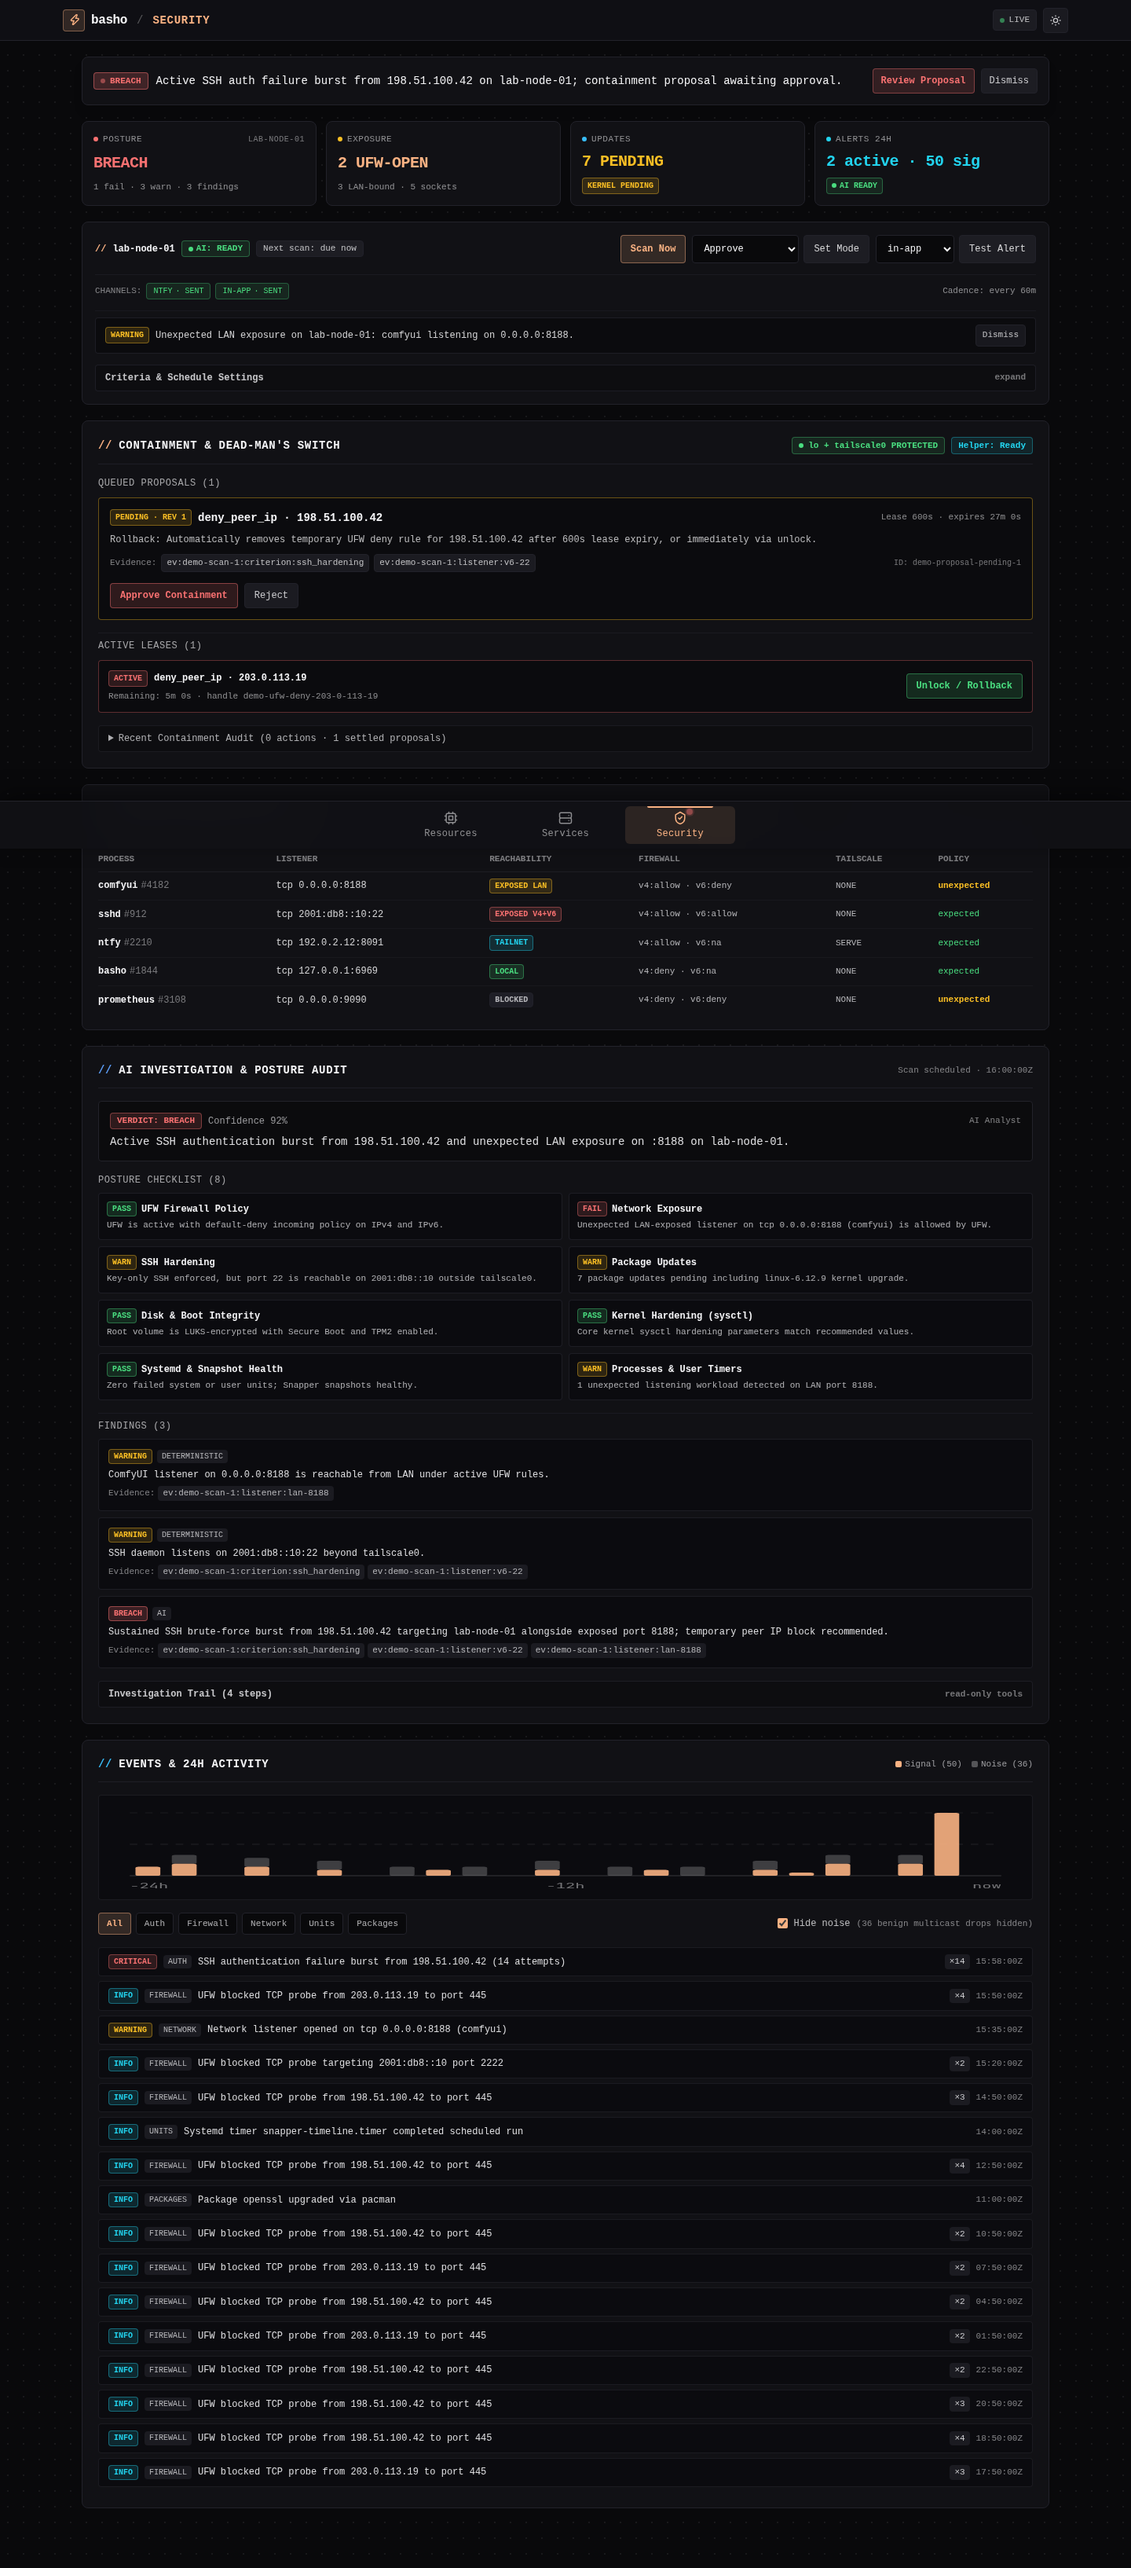
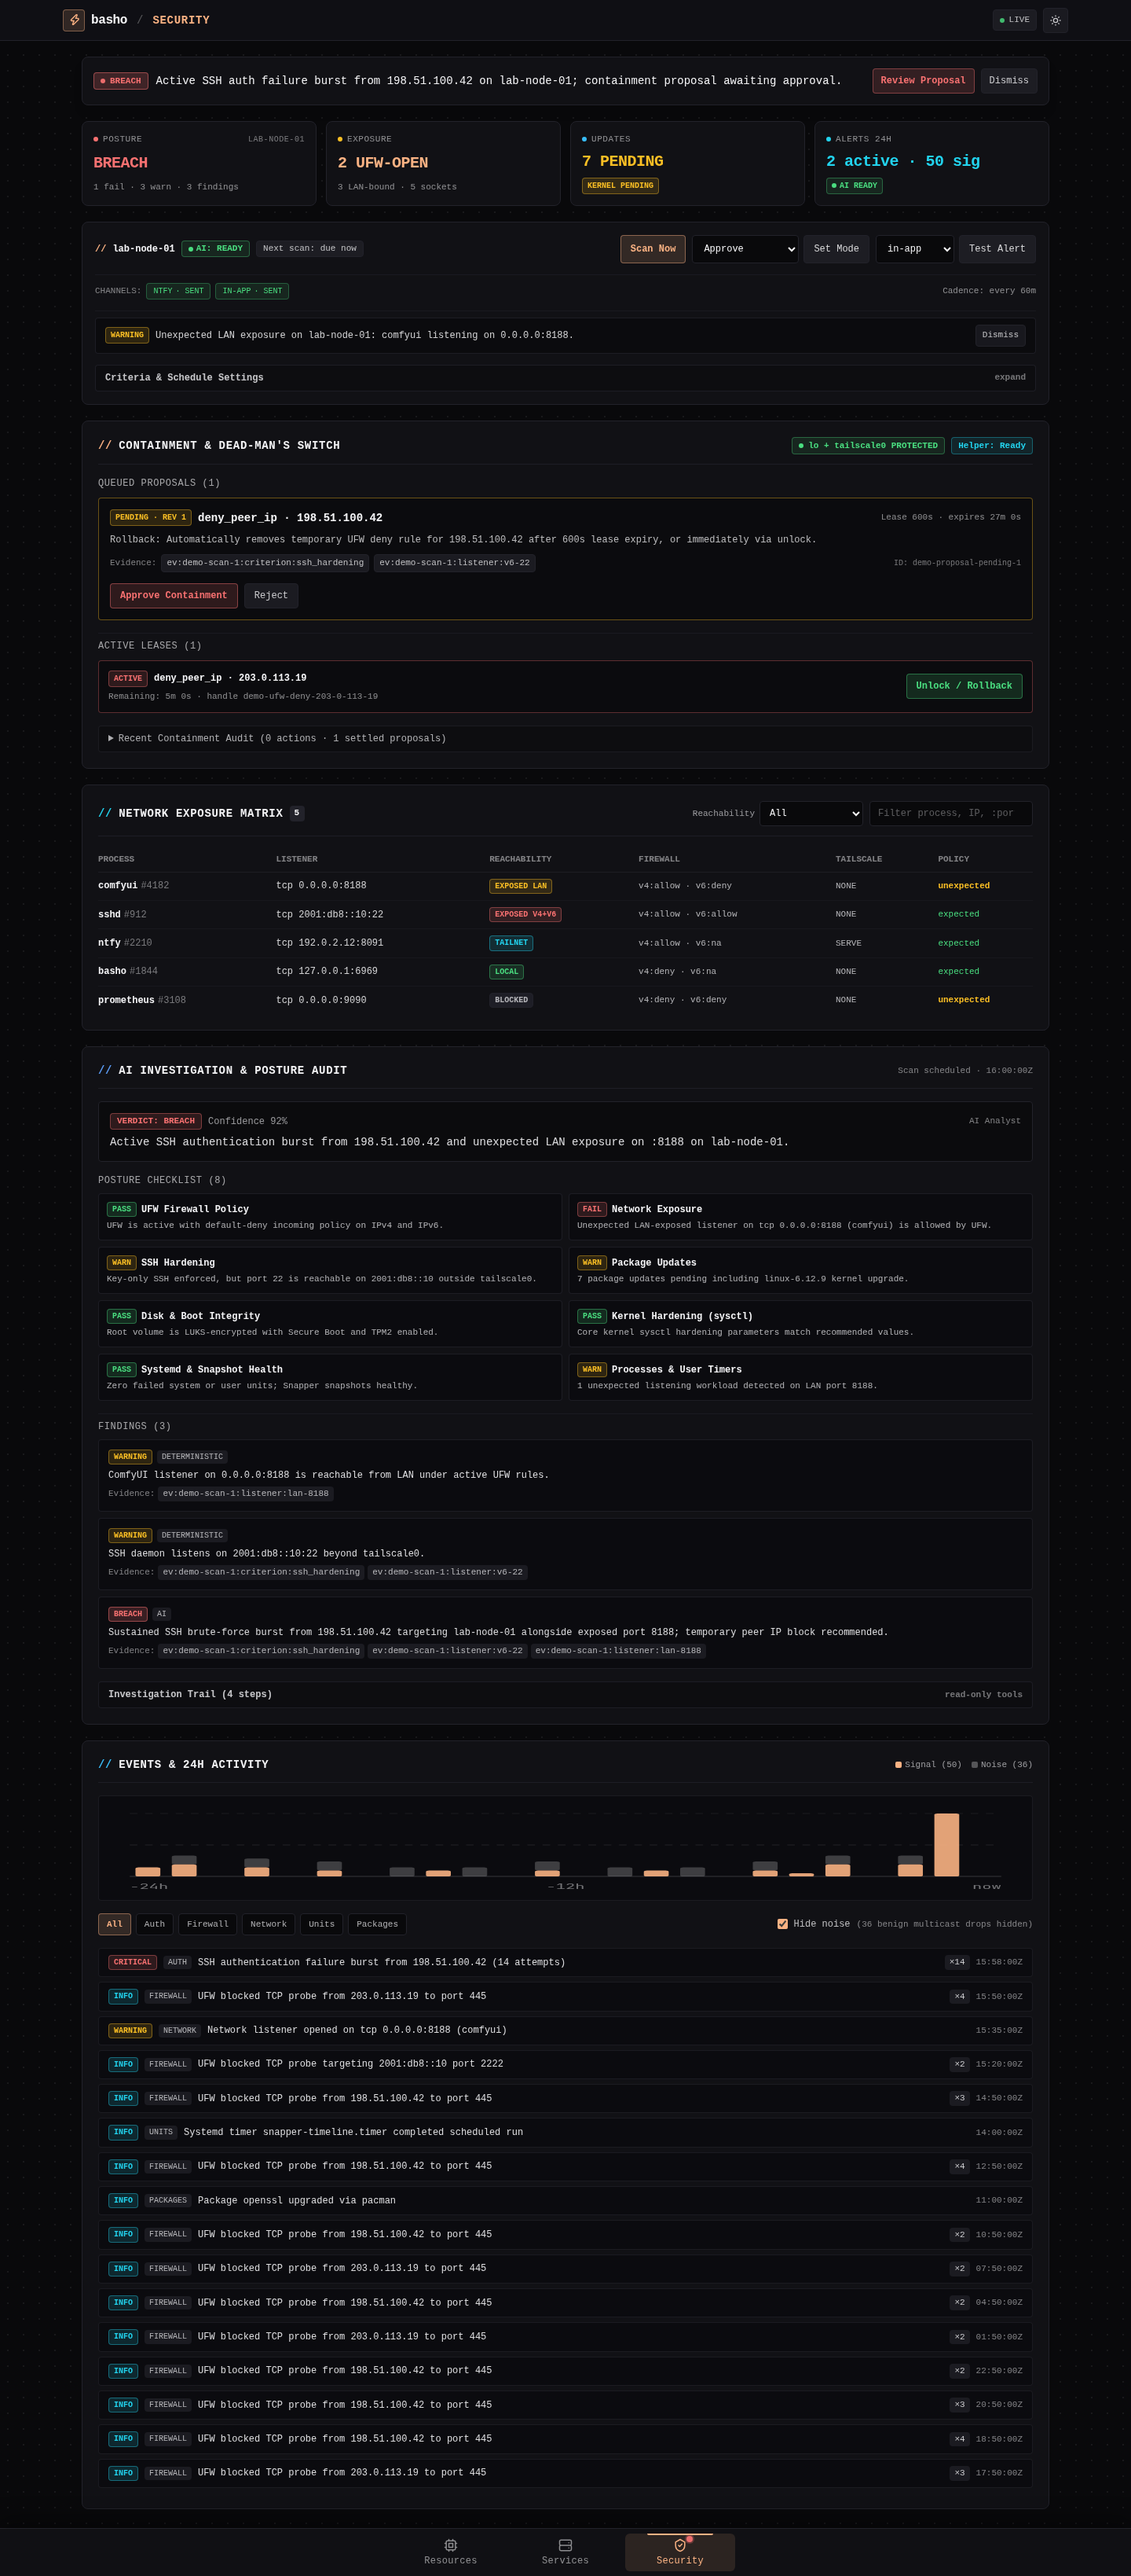
docs(security): clarify auth/UFW prerequisites and cleanly frame demo screenshots

diff --git a/tests/security/docs.test.ts b/tests/security/docs.test.ts
@@ -61,6 +61,30 @@ test("README documents the lockdown helper, modes, preserved paths, and layout",
   expect(scriptsSection).toContain("bun test");
 });
 
+test("README accurately documents unset BASHO_AUTH_TOKEN behavior and UFW prerequisites", async () => {
+  const readme = await Bun.file("README.md").text();
+
+  // Unset BASHO_AUTH_TOKEN leaves /security reads open to peers reaching BASHO_HOST
+  // while mutations remain direct loopback-only without proxy headers.
+  expect(readme).not.toContain(
+    "Operator bearer/login token required for remote reads and mutations on `/security`",
+  );
+  expect(readme).toMatch(/BASHO_AUTH_TOKEN`?\s+is unset.*reads are open/i);
+  expect(readme).toMatch(/bind(?:ing)?\s+`?BASHO_HOST`?\s+to\s+`?127\.0\.0\.1`?/i);
+
+  // Helper UFW prerequisites, existing-rule verification wording, and no-arg sudoers rule.
+  for (const term of [
+    "ufw allow in on tailscale0",
+    "ufw allow 41641/udp",
+    "lan_policy=missing",
+    '/usr/local/libexec/basho-lockdown-helper status ""',
+  ]) {
+    expect(readme).toContain(term);
+  }
+  expect(readme).toMatch(/refuse.*modify protected paths/i);
+  expect(readme).toMatch(/verifies.*allow rules already exist rather than adding them/i);
+});
+
 function pngChunks(bytes: Uint8Array): { type: string; data: Uint8Array }[] {
   const view = new DataView(bytes.buffer, bytes.byteOffset, bytes.byteLength);
   const chunks: { type: string; data: Uint8Array }[] = [];

diff --git a/README.md b/README.md
@@ -108,7 +108,7 @@ for a private topic. Use Test Alert to verify delivery.
 | `OPENCODE_BASE_URL` | `https://opencode.ai/zen/go/v1` | OpenAI-compatible base URL (overrides `ai.baseURL` in `config/security.json`) |
 | `BASHO_HOST` | `0.0.0.0` | Bind address for the HTTP server |
 | `BASHO_PORT` | `6969` | Listen port for the HTTP server |
-| `BASHO_AUTH_TOKEN` | *(unset)* | Operator bearer/login token required for remote reads and mutations on `/security` |
+| `BASHO_AUTH_TOKEN` | *(unset)* | Operator bearer/login token protecting `/security` reads and mutations; when unset, `/security` reads are open to any peer that can reach `BASHO_HOST` (default `0.0.0.0`) while mutations fall back to direct loopback-only (`127.0.0.1` / `::1`) without proxy headers |
 | `BASHO_SECURITY_DB` | `data/basho-security.db` | SQLite database path for scans, events, alerts, proposals, and containment audit logs |
 | `BASHO_DEMO_SECURITY` | `0` | Set `BASHO_DEMO_SECURITY=1` to run in isolated demo mode using fictional `lab-node-01` fixtures |
 | `BASHO_NTFY_TOKEN` | *(unset)* | Bearer token sent in the `Authorization` header for private `ntfy` topics |
@@ -118,8 +118,8 @@ for a private topic. Use Test Alert to verify delivery.
 
 #### Session Login & Remote Mutations
 
-- **Same-origin session login:** When `BASHO_AUTH_TOKEN` is set, remote operators authenticate via `POST /security/login`, which issues a signed `HttpOnly; SameSite=Lax` cookie (`Secure` over HTTPS). All state-changing forms require a matching CSRF token and same-origin `Origin`/`Referer` check.
-- **Remote vs. loopback writes:** Remote mutations require `BASHO_AUTH_TOKEN` and an authenticated session. When `BASHO_AUTH_TOKEN` is unset, mutations are restricted strictly to direct loopback connections (`127.0.0.1` / `::1`) without proxy forwarding headers (`X-Forwarded-For`, `Forwarded`, `X-Real-IP`, `X-Forwarded-Host`, `X-Forwarded-Proto`).
+- **Same-origin session login:** When `BASHO_AUTH_TOKEN` is set, `/security` reads and mutations require a valid bearer token or an authenticated session via `POST /security/login`, which issues a signed `HttpOnly; SameSite=Lax` cookie (`Secure` over HTTPS). All state-changing forms require a matching CSRF token and same-origin `Origin`/`Referer` check.
+- **Unset `BASHO_AUTH_TOKEN` behavior:** When `BASHO_AUTH_TOKEN` is unset, `/security` reads are open to any peer that can reach `BASHO_HOST` (default `0.0.0.0`), while mutations fall back to direct loopback-only (`127.0.0.1` / `::1`) without proxy forwarding headers (`X-Forwarded-For`, `Forwarded`, `X-Real-IP`, `X-Forwarded-Host`, `X-Forwarded-Proto`). Set `BASHO_AUTH_TOKEN` (or bind `BASHO_HOST` to `127.0.0.1` or a Tailscale IP) before exposing Basho on a network.
 
 #### AI Provider & Notification Channels
 
@@ -160,19 +160,20 @@ Firewall containment (`deny_peer_ip` and `isolate_lan_ingress`) is disabled by d
 sudo install -o root -g root -m 0755 scripts/basho-lockdown-helper.sh /usr/local/libexec/basho-lockdown-helper
 ```
 
-Create a narrow `/etc/sudoers.d/basho-lockdown` entry (validated with `visudo -cf`) restricted to that exact binary and its 5 supported subcommands (`status`, `deny-ip`, `isolate-lan`, `inspect`, `rollback`):
+Create a narrow `/etc/sudoers.d/basho-lockdown` entry (validated with `visudo -cf`) restricted to that exact binary and its 5 supported subcommands (`status`, `deny-ip`, `isolate-lan`, `inspect`, `rollback`; trailing `""` locks `status` to zero extra arguments):
 
 ```sudoers
-basho ALL=(root) NOPASSWD: /usr/local/libexec/basho-lockdown-helper status, \
+basho ALL=(root) NOPASSWD: /usr/local/libexec/basho-lockdown-helper status "", \
   /usr/local/libexec/basho-lockdown-helper deny-ip *, \
   /usr/local/libexec/basho-lockdown-helper isolate-lan *, \
   /usr/local/libexec/basho-lockdown-helper inspect *, \
   /usr/local/libexec/basho-lockdown-helper rollback *
 ```
 
+- **UFW prerequisite:** UFW must be active with an existing inbound allow rule such as `ufw allow in on tailscale0` or `ufw allow 41641/udp`; otherwise `status` fails (when UFW is inactive) or reports `lan_policy=missing` (when the Tailscale allow rule is absent).
 - **LAN isolation enrollment:** Create root-owned `/etc/basho-lockdown/lan-policy.conf` (mode `0644` or `0600`, owned by `root:root`) defining `LAN_INTERFACE=<iface>` (never `lo` or `tailscale*`) and `LAN_PORTS=<comma-separated-ports>` (port `41641` is rejected). Runtime lease metadata is stored in root-owned `/var/lib/basho-lockdown` (mode `0700`).
-- **Readiness check & independent rollback:** Verify installation with `sudo -n /usr/local/libexec/basho-lockdown-helper status` (expects `status=ready` and `lan_policy=ready` when LAN isolation is enrolled). Before prepending any `ufw` rule, the helper arms an independent `systemd-run` rollback timer (`basho-rollback-<id>`) so leases revert automatically even if Basho crashes.
-- **Preserved management paths:** Both `DeadMansSwitch` and the helper unconditionally protect loopback (`lo`, `127.0.0.0/8`, `::1`), Tailscale Tailnet management (`tailscale0`, `100.64.0.0/10`, `fd7a:115c:a1e0::/48`), and Tailscale WireGuard (`UDP/41641`).
+- **Readiness check & independent rollback:** Verify installation with `sudo -n /usr/local/libexec/basho-lockdown-helper status` (expects `status=ready` and `lan_policy=ready` when UFW is active, an inbound Tailscale allow rule exists, and LAN isolation is enrolled). Before prepending any `ufw` rule, the helper arms an independent `systemd-run` rollback timer (`basho-rollback-<id>`) so leases revert automatically even if Basho crashes.
+- **Preserved management paths:** Both `DeadMansSwitch` and the helper refuse to modify protected paths (`lo`, `127.0.0.0/8`, `::1`, `tailscale0`, `100.64.0.0/10`, `fd7a:115c:a1e0::/48`, `UDP/41641`), and the helper verifies those inbound Tailscale allow rules already exist rather than adding them itself.
 - **Disabling helper access:** Set `"helperEnabled": false` under `lockdown` in `config/security.json` and remove `/etc/sudoers.d/basho-lockdown` and `/usr/local/libexec/basho-lockdown-helper`.
 
 ### Building CSS
